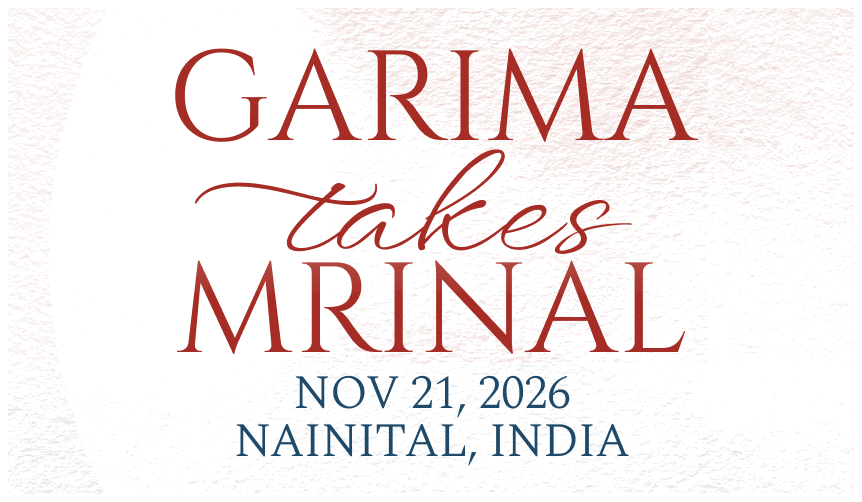
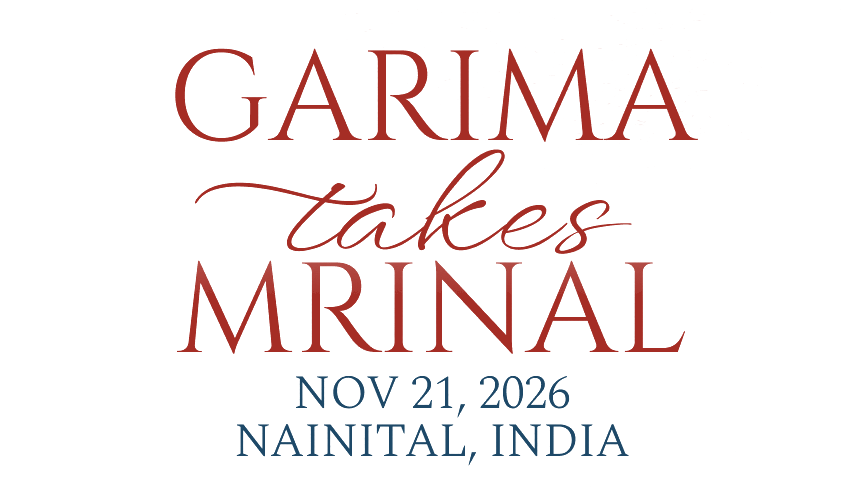
Strip background watercolor halo from centerpiece and flower images for true 100% transparent typography and pure Direction 1 procedural cotton-rag background

diff --git a/index.html b/index.html
@@ -17,13 +17,13 @@
 <meta name="apple-mobile-web-app-title" content="GTM 2026">
 <title>Garima weds Mrinal · Nainital 2026</title>
 <meta name="description" content="Garima weds Mrinal · A wedding in the Kumaon hills · 20–22 November 2026 · Nainital, Uttarakhand">
-<link rel="icon" type="image/png" sizes="32x32" href="images/favicon-32x32.png?v=3600">
-<link rel="icon" type="image/png" sizes="64x64" href="images/favicon-64x64.png?v=3600">
-<link rel="icon" type="image/x-icon" href="favicon.ico?v=3600">
+<link rel="icon" type="image/png" sizes="32x32" href="images/favicon-32x32.png?v=3700">
+<link rel="icon" type="image/png" sizes="64x64" href="images/favicon-64x64.png?v=3700">
+<link rel="icon" type="image/x-icon" href="favicon.ico?v=3700">
 <link rel="preconnect" href="https://fonts.googleapis.com">
 <link rel="preconnect" href="https://fonts.gstatic.com" crossorigin>
 <link href="https://fonts.googleapis.com/css2?family=Cinzel:wght@400;500;600;700&family=Cormorant+Garamond:ital,wght@0,300;0,400;0,500;0,600;0,700;1,400;1,500&family=Spectral:wght@200;300;400;500;600;700&family=WindSong&display=swap" rel="stylesheet">
-<link rel="stylesheet" href="css/site.css?v=3600">
+<link rel="stylesheet" href="css/site.css?v=3700">
 <style>
 @font-face {
   font-family: 'WindSong';
@@ -570,7 +570,7 @@ html, body {
           <!-- ── 3. Central Typography Centerpiece (Pixel-by-Pixel Master Design Lockup) ── -->
   <div class="home-hero-text">
     <div class="home-centerpiece-wrap">
-      <img src="images/home_centerpiece.png?v=3600" alt="GARIMA takes MRINAL · NOV 21, 2026 · NAINITAL, INDIA" class="home-centerpiece-img">
+      <img src="images/home_centerpiece.png?v=3700" alt="GARIMA takes MRINAL · NOV 21, 2026 · NAINITAL, INDIA" class="home-centerpiece-img">
     </div>
   </div>
 
@@ -905,7 +905,7 @@ document.addEventListener('DOMContentLoaded', function() {
   }
 });
 </script>
-<script src="js/spa-nav.js?v=3600"></script>
-<script src="js/global-audio.js?v=3600"></script>
+<script src="js/spa-nav.js?v=3700"></script>
+<script src="js/global-audio.js?v=3700"></script>
 </body>
 </html>
